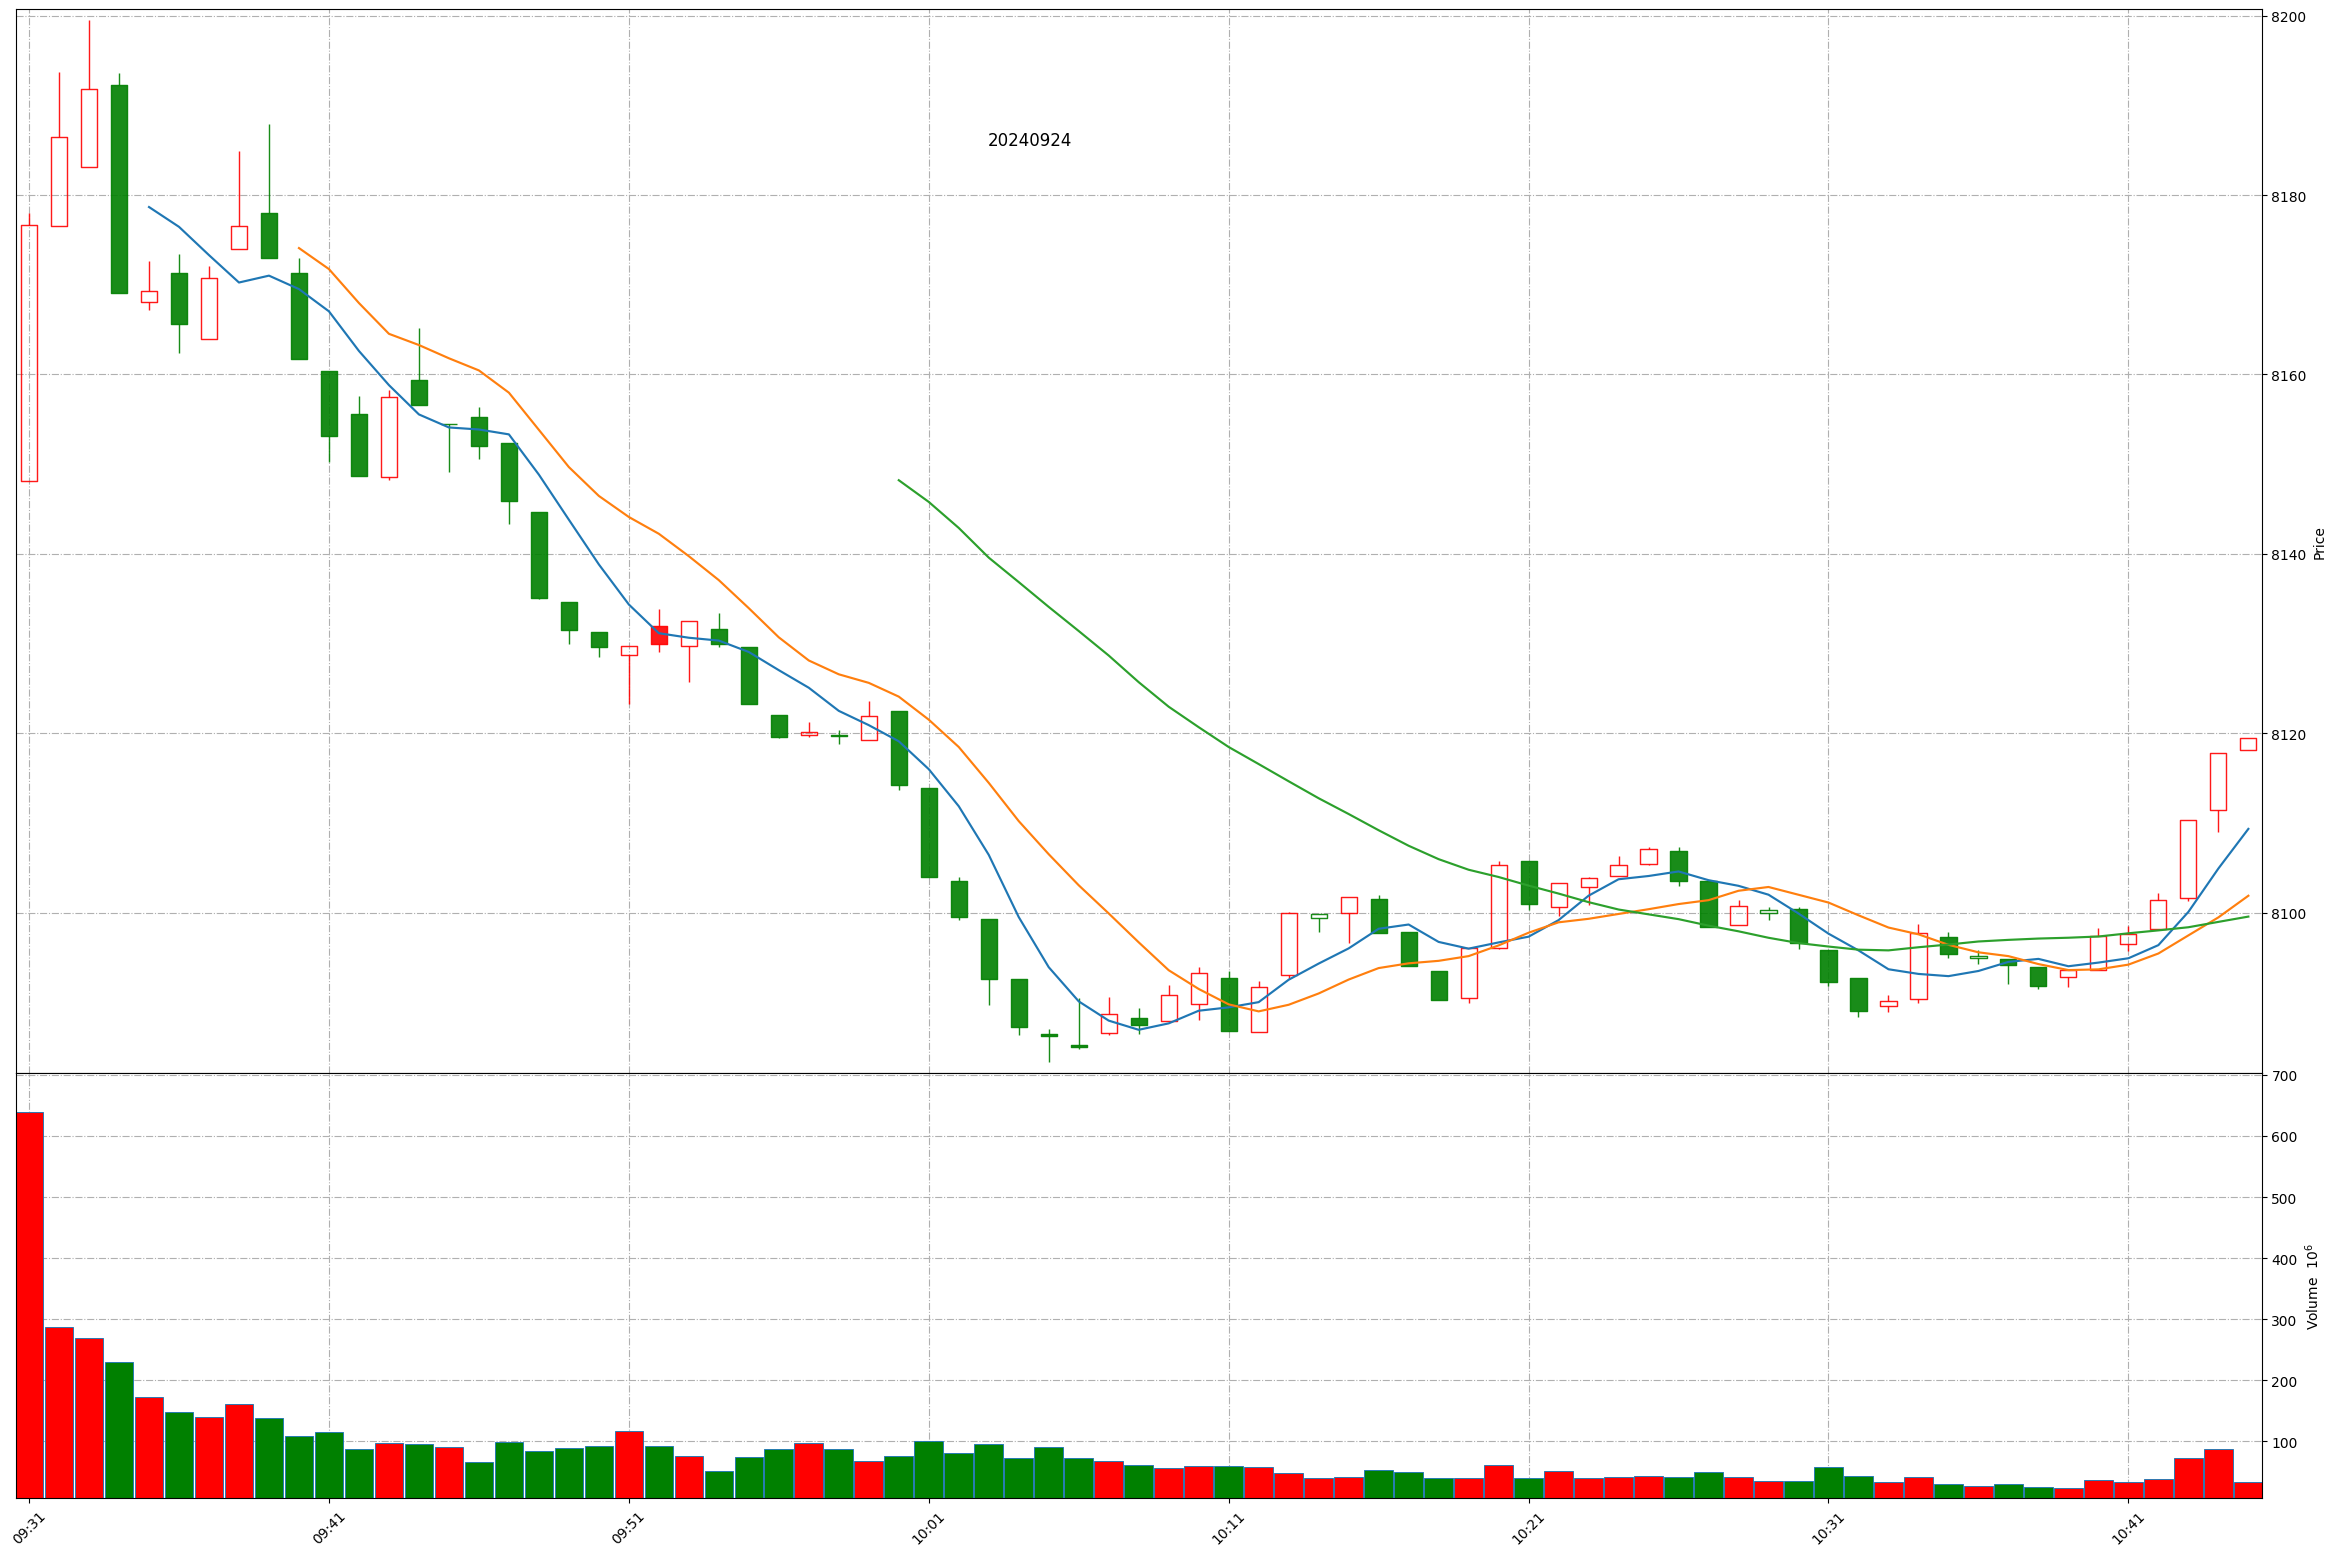
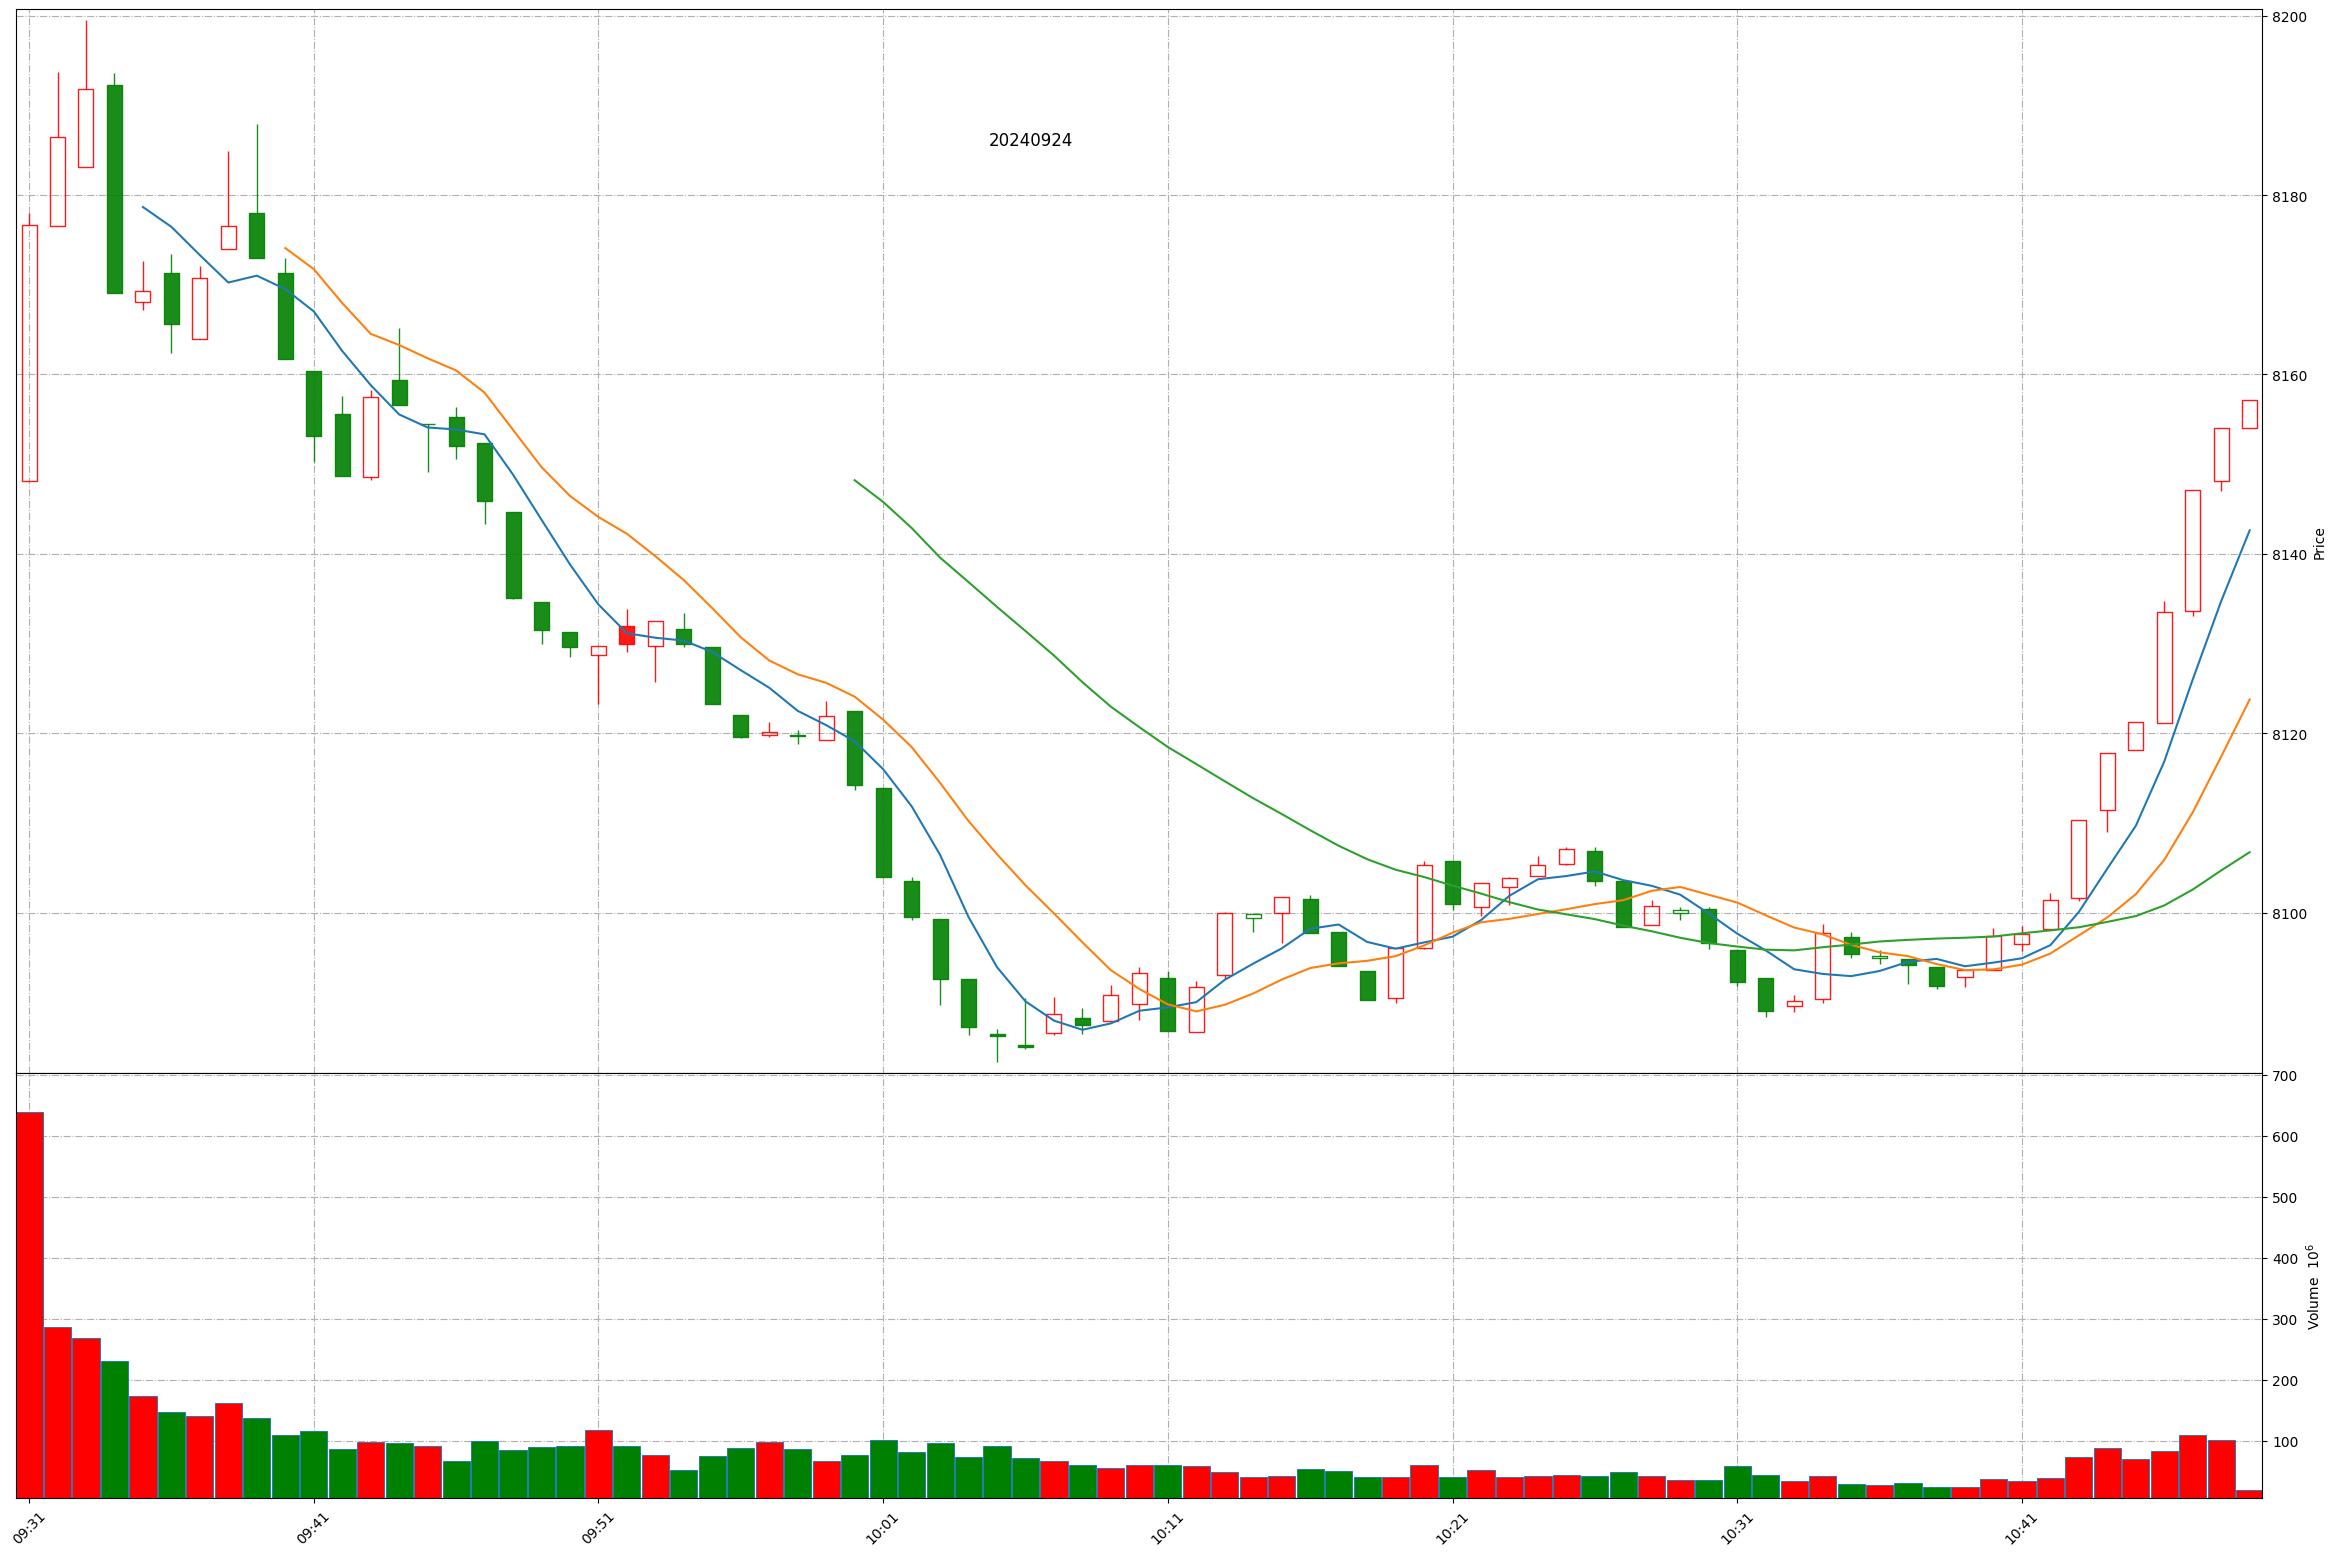
Github action update at 2024-09-24 10:48:27.

diff --git a/README.md b/README.md
@@ -1,11 +1,11 @@
 
 # Daily-A-share-market-quotes 每日 A 股指数（5min 更新）- 20240924
 
-### 上证指数 20240924 10:44
+### 上证指数 20240924 10:48
 ![](./fig/2024/9/20240924-sh000001.png)
 
-### 深证成指 20240924 10:44
+### 深证成指 20240924 10:48
 ![](./fig/2024/9/20240924-sz399001.png)
 
-### 北证50 20240924 10:44
+### 北证50 20240924 10:48
 ![](./fig/2024/9/20240924-bj899050.png)
